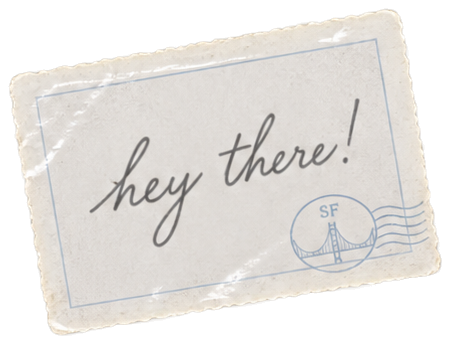
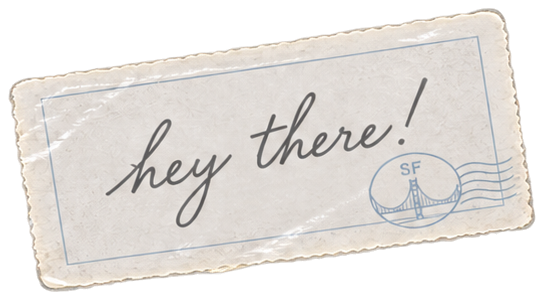
Use new naturally wide hey-there postcard art
Replaces the stretched square version; object-fit:fill hack removed and
box restored to the artwork's real aspect.

Claude-Session: https://claude.ai/code/session_01HwHnB6ZvdvjAvLg4jAqUHh

Changed region(s): [[0.0, 0.03, 0.9956, 0.99], [0.1867, 0.3, 0.7778, 0.78], [0.7467, 0.27, 0.8089, 0.42]]

diff --git a/index.html b/index.html
@@ -46,7 +46,6 @@ nav .links{position:absolute;right:44px;display:flex;gap:52px;text-transform:upp
 nav a{color:#fff;text-decoration:none;opacity:.92}
 nav a:hover{opacity:1;text-decoration:underline;text-underline-offset:5px}
 
-#scrap-hi img{object-fit:fill}  /* postcard is deliberately squished wider/shorter */
 .doorlabel{font-size:22px;letter-spacing:.14em;text-transform:uppercase;
   text-align:center;text-shadow:0 1px 10px rgba(0,0,0,.4)}
 
@@ -115,7 +114,7 @@ nav a:hover{opacity:1;text-decoration:underline;text-underline-offset:5px}
 /* canvas coordinates (1440 x 900). w/h tuned to each asset's true aspect. */
 const LAYOUT = {
   "notebook":       {x: 237, y: 314, w: 205, h: 228, r: -2, href: null},
-  "scrap-hi":       {x: 615, y: 150, w: 190, h: 115, r: -1},
+  "scrap-hi":       {x: 615, y: 155, w: 190, h: 105, r: -1},
   "photo":          {x: 535, y: 216, w: 320, h: 375, r:  0},
   "scrap-welcome":  {x: 515, y: 561, w: 360, h:  73, r:  0},
   "doodle-disco":   {x: 500, y: 239, w:  63, h:  70, r:  0},
